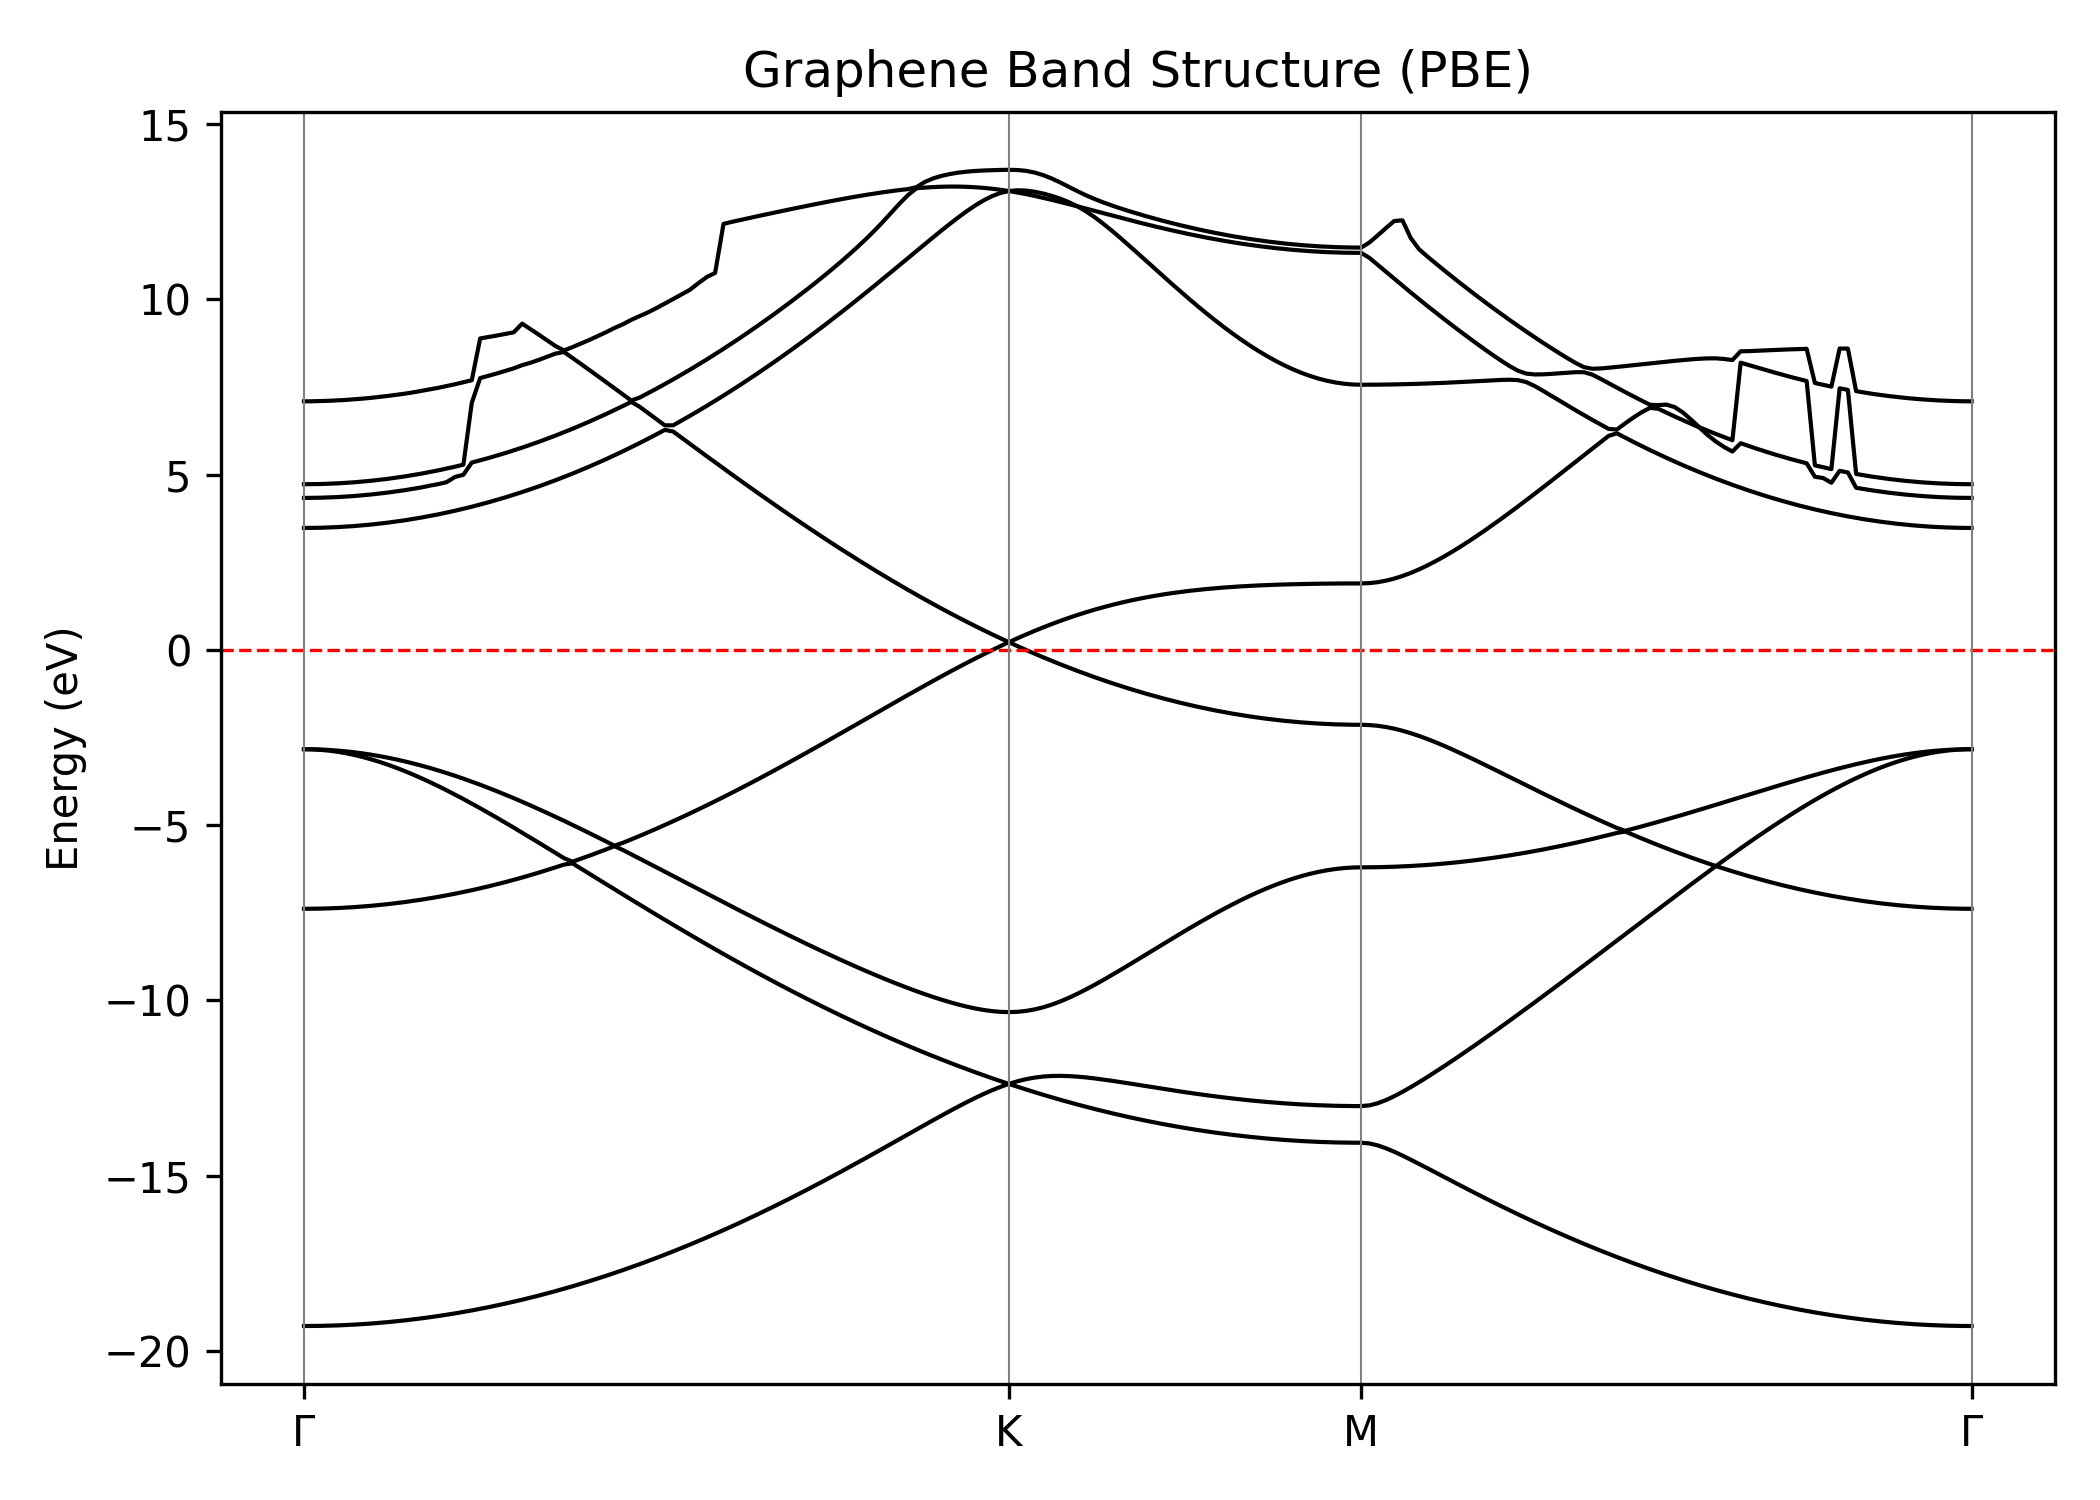
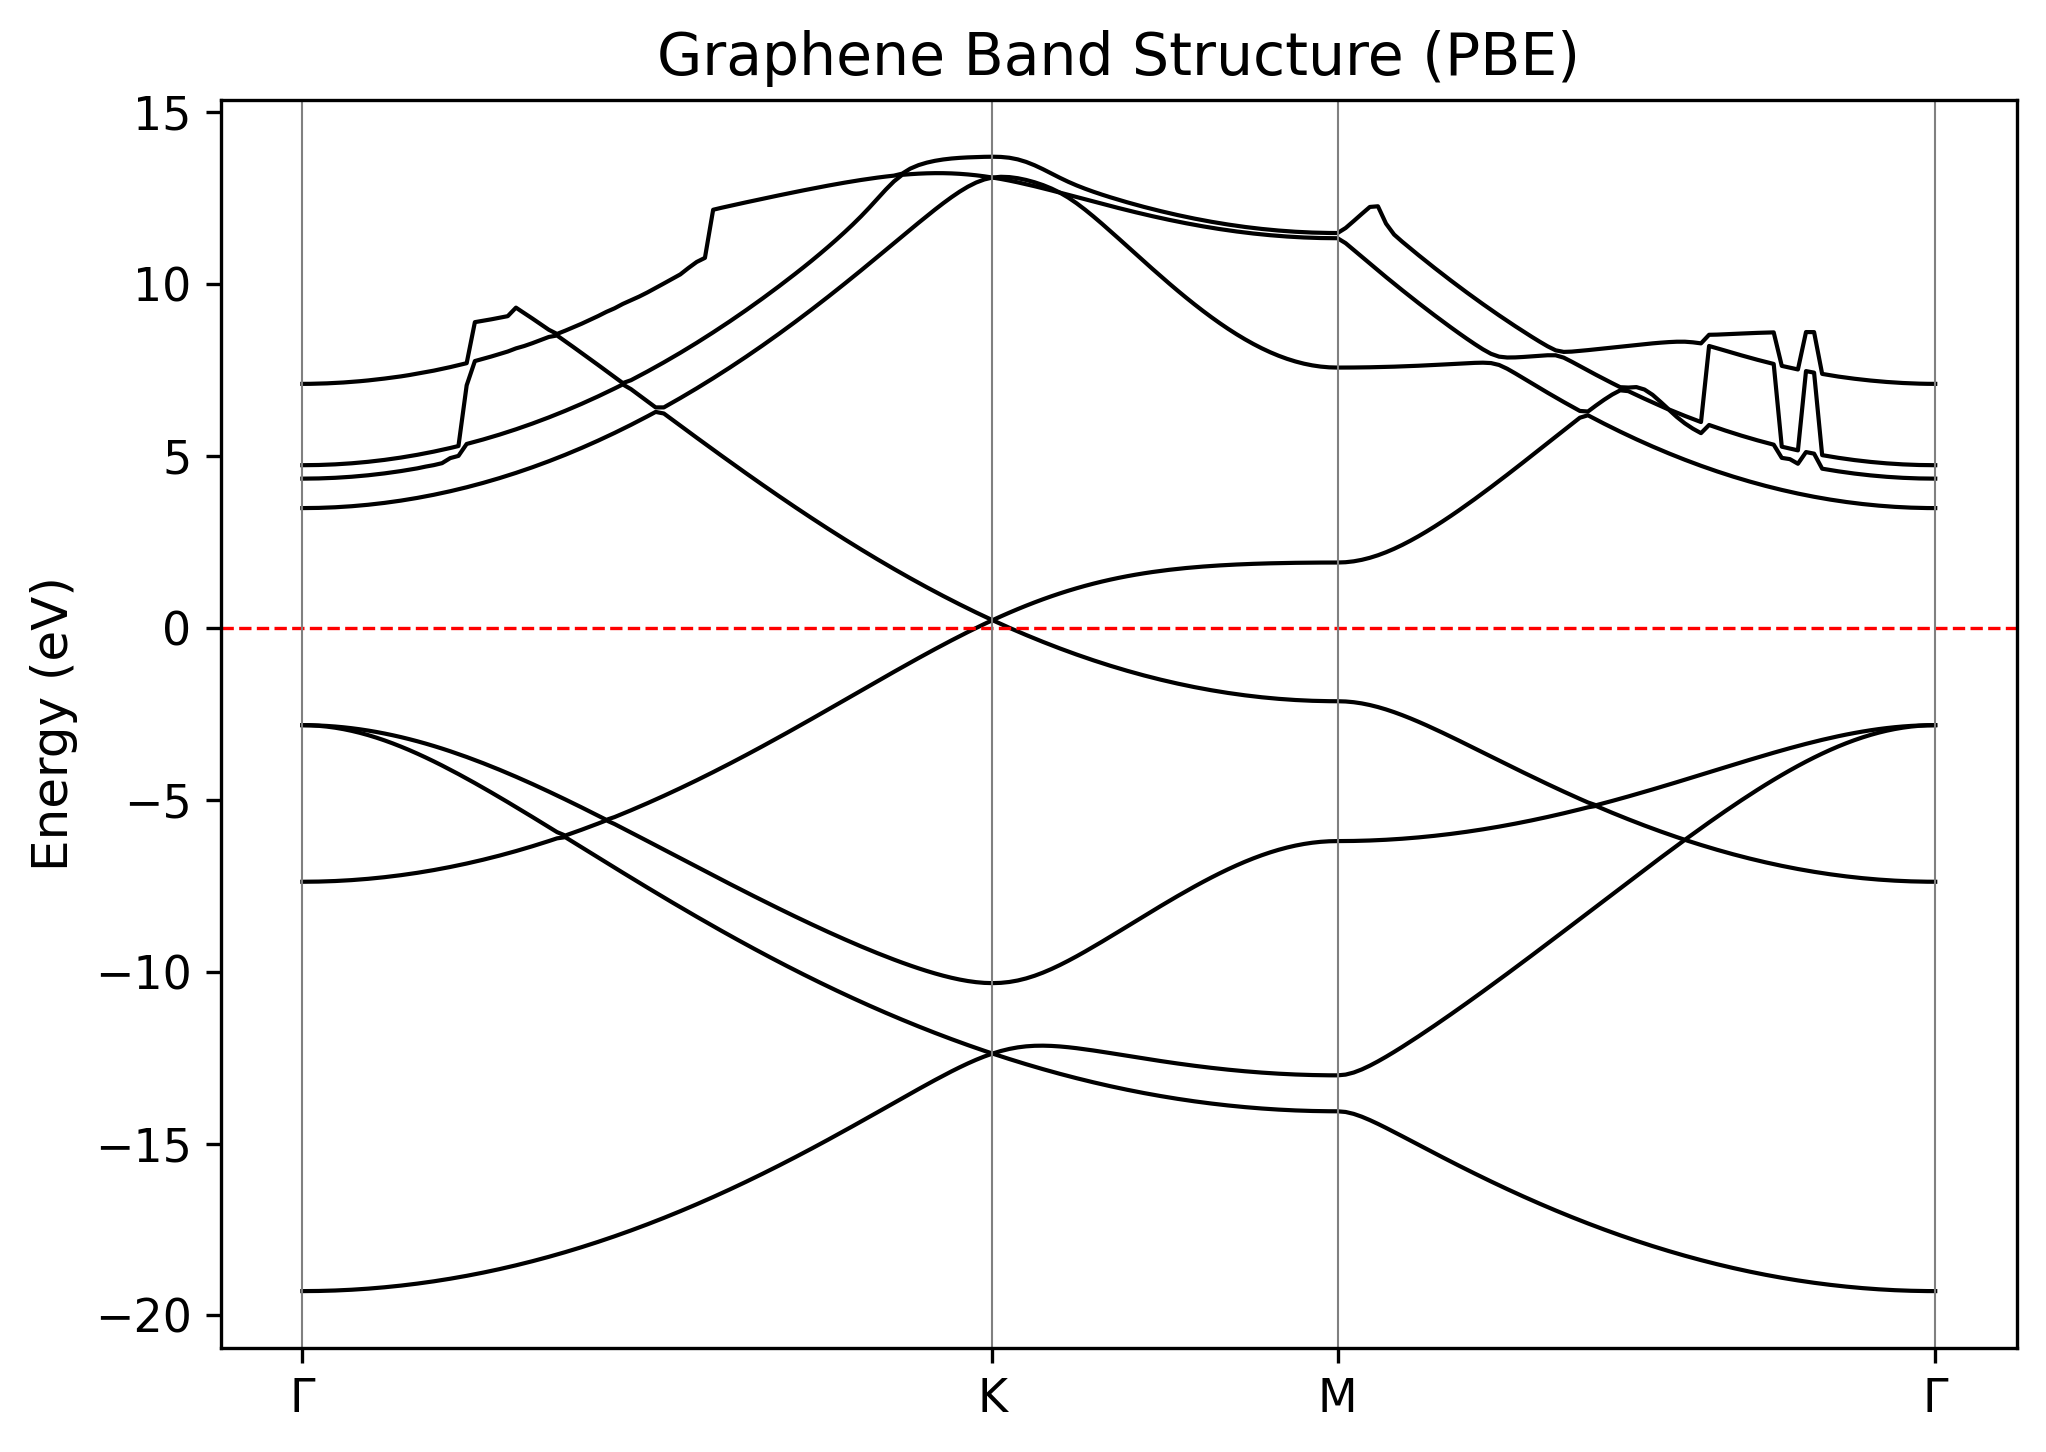
Small fixes.

diff --git a/1_graphene/scripts/1_graphene_relaxation.py b/1_graphene/scripts/1_graphene_relaxation.py
@@ -31,8 +31,8 @@ filter = ExpCellFilter(atoms, mask=mask)
 traj = Trajectory('../outputs/graphene_relax.traj', 'w', atoms)
 
 opt = BFGS(filter,
-           logfile='relax.log',
-           trajectory='graphene_relax.traj')
+           logfile='../outputs/graphene_relax.log',
+           trajectory='../outputs/graphene_relax.traj')
 
 opt.run(fmax=0.02)
 
@@ -48,5 +48,39 @@ print("\nRelaxation completed.")
 print(f"Optimised lattice constant a = {a:.4f} Å")
 print(f"Optimised C–C bond length d_CC = {d_cc:.4f} Å")
 print(f"Total energy per atom = {energy / len(atoms):.6f} eV")
+
+
+# -----------------------------
+# 5. Save important data to file
+# -----------------------------
+import datetime
+timestamp = datetime.datetime.now().strftime("%Y-%m-%d %H:%M:%S")
+
+output_path = '../outputs/graphene_relax_data.txt'
+with open(output_path, 'w') as f:
+    f.write("Graphene Relaxation Results\n")
+    f.write("Timestamp: {}\n\n".format(timestamp))
+
+    f.write("=== Structural Properties ===\n")
+    f.write(f"Lattice constant a: {a:.6f} Å\n")
+    f.write(f"C–C bond length d_CC: {d_cc:.6f} Å\n")
+    f.write("\n")
+
+    f.write("=== Energetics ===\n")
+    f.write(f"Total energy: {energy:.6f} eV\n")
+    f.write(f"Energy per atom: {energy / len(atoms):.6f} eV/atom\n")
+    f.write("\n")
+
+    f.write("=== Computational Parameters ===\n")
+    f.write("Exchange–correlation: PBE\n")
+    f.write("Basis: Plane waves\n")
+    f.write("Cutoff: 600 eV\n")
+    f.write("k-points: 12 × 12 × 1\n")
+    f.write("Vacuum spacing: 8 Å\n")
+    f.write("Force threshold: 0.02 eV/Å\n")
+    f.write("Cell relaxation mask: {}\n".format(mask))
+
+print(f"\nSaved relaxation data to: {output_path}")
+
 
 calc.write('graphene_relaxed.gpw')

diff --git a/1_graphene/scripts/3_graphene_bandstructure.py b/1_graphene/scripts/3_graphene_bandstructure.py
@@ -47,6 +47,45 @@ eigs = np.array(eigs)
 fermi = calc.get_fermi_level()
 
 
+# -----------------------------
+# 6. Save important band-structure data
+# -----------------------------
+import datetime
+timestamp = datetime.datetime.now().strftime("%Y-%m-%d %H:%M:%S")
+
+outpath = '../outputs/graphene_bands_data.txt'
+
+# Compute energy range (relative to Fermi level)
+emin = eigs.min() - fermi
+emax = eigs.max() - fermi
+
+with open(outpath, 'w') as f:
+    f.write("Graphene Band-Structure Calculation\n")
+    f.write("Timestamp: {}\n\n".format(timestamp))
+
+    f.write("=== k-Path ===\n")
+    f.write("High-symmetry path: Γ → K → M → Γ\n")
+    f.write(f"Total number of k-points: {N}\n\n")
+
+    f.write("=== Energetics ===\n")
+    f.write(f"Fermi level (from SCF): {fermi:.6f} eV\n")
+    f.write(f"Minimum eigenvalue (shifted): {emin:.6f} eV\n")
+    f.write(f"Maximum eigenvalue (shifted): {emax:.6f} eV\n\n")
+
+    f.write("=== Band Information ===\n")
+    f.write(f"Number of bands: {eigs.shape[1]}\n")
+    f.write("Eigenvalues include both occupied and unoccupied states.\n\n")
+
+    f.write("=== Computational Parameters ===\n")
+    f.write("Exchange–correlation functional: PBE\n")
+    f.write("Basis: Plane waves (PAW method)\n")
+    f.write("Cutoff energy: 600 eV (inherited from SCF)\n")
+    f.write("k-point path sampling: 200 points\n")
+    f.write("Density used: fixed-density from SCF\n")
+    f.write("Symmetry: off\n")
+
+print(f"Saved band information to: {outpath}")
+
 # -----------------------------------------------------
 # 5. Save raw data to NPZ file
 # -----------------------------------------------------

diff --git a/1_graphene/scripts/2_graphene_scf.py b/1_graphene/scripts/2_graphene_scf.py
@@ -11,7 +11,7 @@ atoms = calc_relaxed.atoms
 # High-quality SCF calculation
 # --------------------------------------------------------
 calc_scf = GPAW(
-    mode=PW(600),               # same plane-wave basis as relaxation
+    mode=PW(1000),               # same plane-wave basis as relaxation
     xc='PBE',
     kpts=(18, 18, 1),           # denser grid for accurate density
     txt='graphene_scf.txt',
@@ -26,6 +26,34 @@ fermi = calc_scf.get_fermi_level()
 
 print(f"\nSCF total energy: {energy:.6f} eV")
 print(f"Fermi level: {fermi:.6f} eV")
+
+
+# -----------------------------
+# 3. Save important SCF data
+# -----------------------------
+import datetime
+timestamp = datetime.datetime.now().strftime("%Y-%m-%d %H:%M:%S")
+
+output_path = '../outputs/graphene_scf_data.txt'
+with open(output_path, 'w') as f:
+    f.write("Graphene SCF Calculation Results\n")
+    f.write("Timestamp: {}\n\n".format(timestamp))
+
+    f.write("=== Energetics ===\n")
+    f.write(f"SCF total energy: {energy:.6f} eV\n")
+    f.write(f"Fermi level:      {fermi:.6f} eV\n")
+    f.write("\n")
+
+    f.write("=== Computational Parameters ===\n")
+    f.write("Exchange–correlation: PBE\n")
+    f.write("Basis: Plane waves\n")
+    f.write("Cutoff: 600 eV\n")
+    f.write("k-points: 18 × 18 × 1\n")
+    f.write("Smearing: Fermi–Dirac, width = 0.01 eV\n")
+    f.write("\n")
+
+print(f"Saved SCF summary to: {output_path}\n")
+
 
 # --------------------------------------------------------
 # Save for bands and DOS

diff --git a/1_graphene/scripts/1a_plot_relaxation_energy.py b/1_graphene/scripts/1a_plot_relaxation_energy.py
@@ -1,14 +1,18 @@
 from ase.io import read
 import matplotlib.pyplot as plt
 
-# Read all images from the trajectory
 images = read('../outputs/graphene_relax.traj', index=':')
-
 energies = [img.get_potential_energy() for img in images]
 
+print(energies)
 plt.plot(energies, marker='o')
 plt.xlabel('Optimization step')
 plt.ylabel('Total Energy (eV)')
 plt.title('Graphene Relaxation Energy')
 plt.grid(True)
+
+plt.ticklabel_format(style='plain', axis='y')
+plt.gca().get_yaxis().get_major_formatter().set_useOffset(False)
+plt.gca().yaxis.set_tick_params(pad=8)  # <-- ADD THIS
+
 plt.show()

diff --git a/plotstyle.py b/plotstyle.py
@@ -1,0 +1,17 @@
+import matplotlib.pyplot as plt
+
+def set_plot_style():
+    plt.rcParams.update({
+        "figure.figsize": (7, 5),
+        "axes.labelsize": 12,
+        "axes.titlesize": 14,
+        "xtick.labelsize": 11,
+        "ytick.labelsize": 11,
+        "lines.linewidth": 1.2,
+        "axes.grid": False,
+        "grid.linestyle": "--",
+        "grid.color": "gray",
+        "font.size": 12,
+        "savefig.dpi": 300,
+        "savefig.bbox": "tight",
+    })

diff --git a/1_graphene/scripts/4_graphene_dos.py b/1_graphene/scripts/4_graphene_dos.py
@@ -22,6 +22,9 @@ e_f = calc.get_fermi_level()
 # width — Gaussian broadening in eV
 e, dos = calc.get_dos(spin=0, npts=2001, width=0.2)
 
+
+
+
 # ----------------------------------------------------
 # 3. Save DOS data (optional)
 # ----------------------------------------------------

diff --git a/1_graphene/scripts/3a_plot_bands.py b/1_graphene/scripts/3a_plot_bands.py
@@ -1,6 +1,10 @@
 import numpy as np
 import matplotlib.pyplot as plt
 
+from plotstyle import set_plot_style
+set_plot_style()
+
+
 # -----------------------------------------------------
 # 1. Load raw band-structure data
 # -----------------------------------------------------

diff --git a/1_graphene/scripts/4a_plot_dos.py b/1_graphene/scripts/4a_plot_dos.py
@@ -2,6 +2,9 @@
 import matplotlib.pyplot as plt
 import numpy as np
 import os
+import plotstyle
+
+plotstyle.set_plot_style()
 
 outdir = '../outputs/'
 
